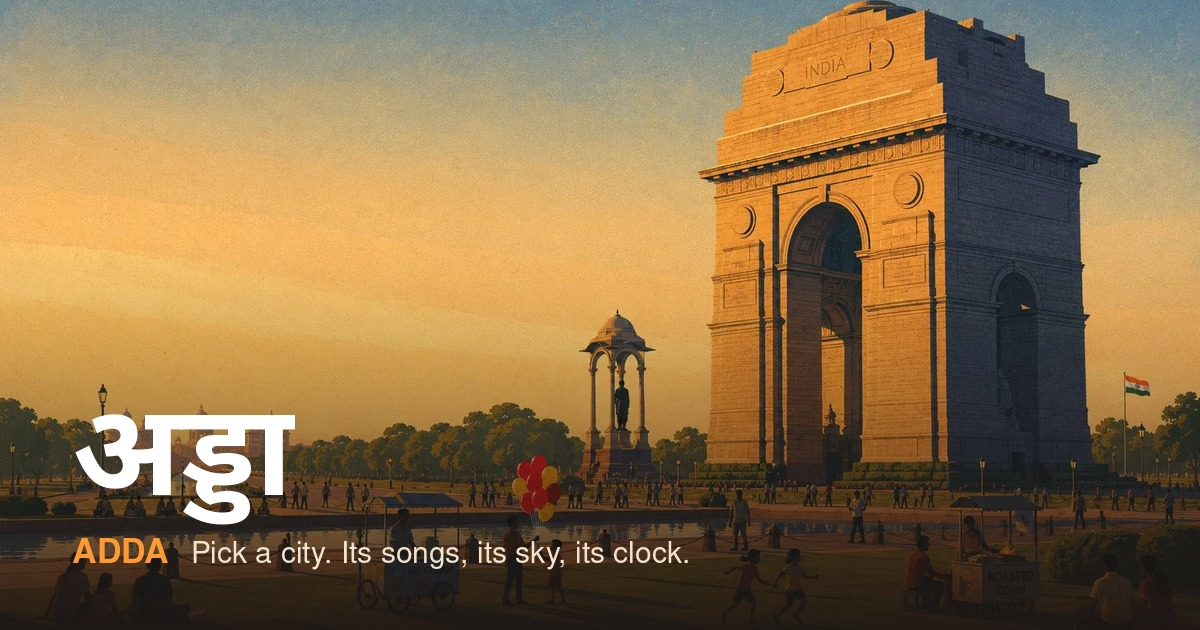
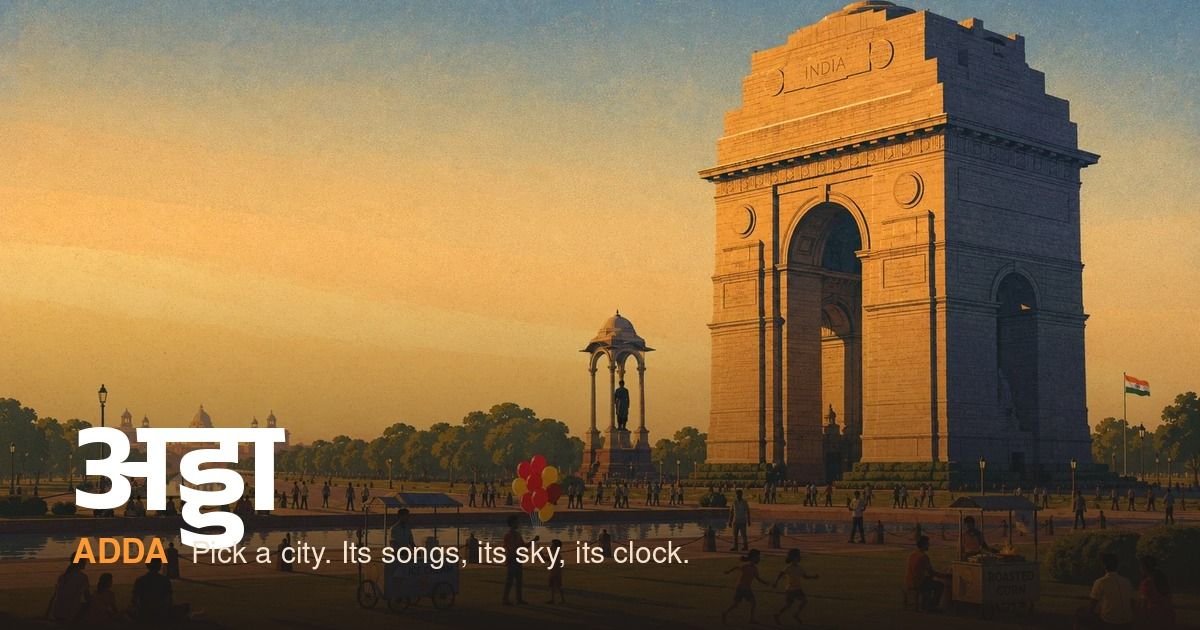
Add Bengaluru room: Cubbon Park, 10 tracks; OG cards now set in Anek

Changed region(s): [[0.0617, 0.6333, 0.2467, 0.8746]]

diff --git a/lib/rooms.ts b/lib/rooms.ts
@@ -126,10 +126,15 @@ export const rooms: Room[] = [
     lat: 12.9764,
     lon: 77.5929,
     city: 'Bengaluru',
-    playlistUrl: '',
+    playlistUrl: 'https://music.youtube.com/playlist?list=PLQsnx4h6IQwg',
     scene: '/scenes/bengaluru.webp',
-    titleAnchor: [50, 16],
-    status: 'soon',
+    sceneMobile: '/scenes/bengaluru-portrait.webp',
[2 lines of base64/hex data omitted]
+    // Upper left is the pale misty gap between the canopies in both
+    // scenes - the only quiet, low-contrast area in a busy green frame.
+    titleAnchor: [30, 16],
+    status: 'live',
   },
   // Lucknow, when there's artwork for it:
   // {

diff --git a/app/layout.tsx b/app/layout.tsx
@@ -1,7 +1,6 @@
 import type { Metadata, Viewport } from 'next';
 import Script from 'next/script';
 import { Anek_Latin, Anek_Devanagari, Anek_Kannada } from 'next/font/google';
-import { Analytics } from '@vercel/analytics/next';
 import './globals.css';
 
 const GTM_ID = 'GTM-PBZQFB32';
@@ -129,7 +128,6 @@ j=d.createElement(s),dl=l!='dataLayer'?'&l='+l:'';j.async=true;j.src=
           />
         </noscript>
         {children}
-        <Analytics />
       </body>
     </html>
   );

diff --git a/lib/playlists/index.ts b/lib/playlists/index.ts
@@ -2,10 +2,12 @@ import type { Track } from '@/lib/types';
 import dilli from './dilli.json';
 import mumbai from './mumbai.json';
 import goa from './goa.json';
+import bengaluru from './bengaluru.json';
 
 /** Keyed by room slug. Add a room's JSON here when you add the room. */
 export const playlists: Record<string, Track[]> = {
   dilli: dilli as Track[],
   mumbai: mumbai as Track[],
   goa: goa as Track[],
+  bengaluru: bengaluru as Track[],
 };
